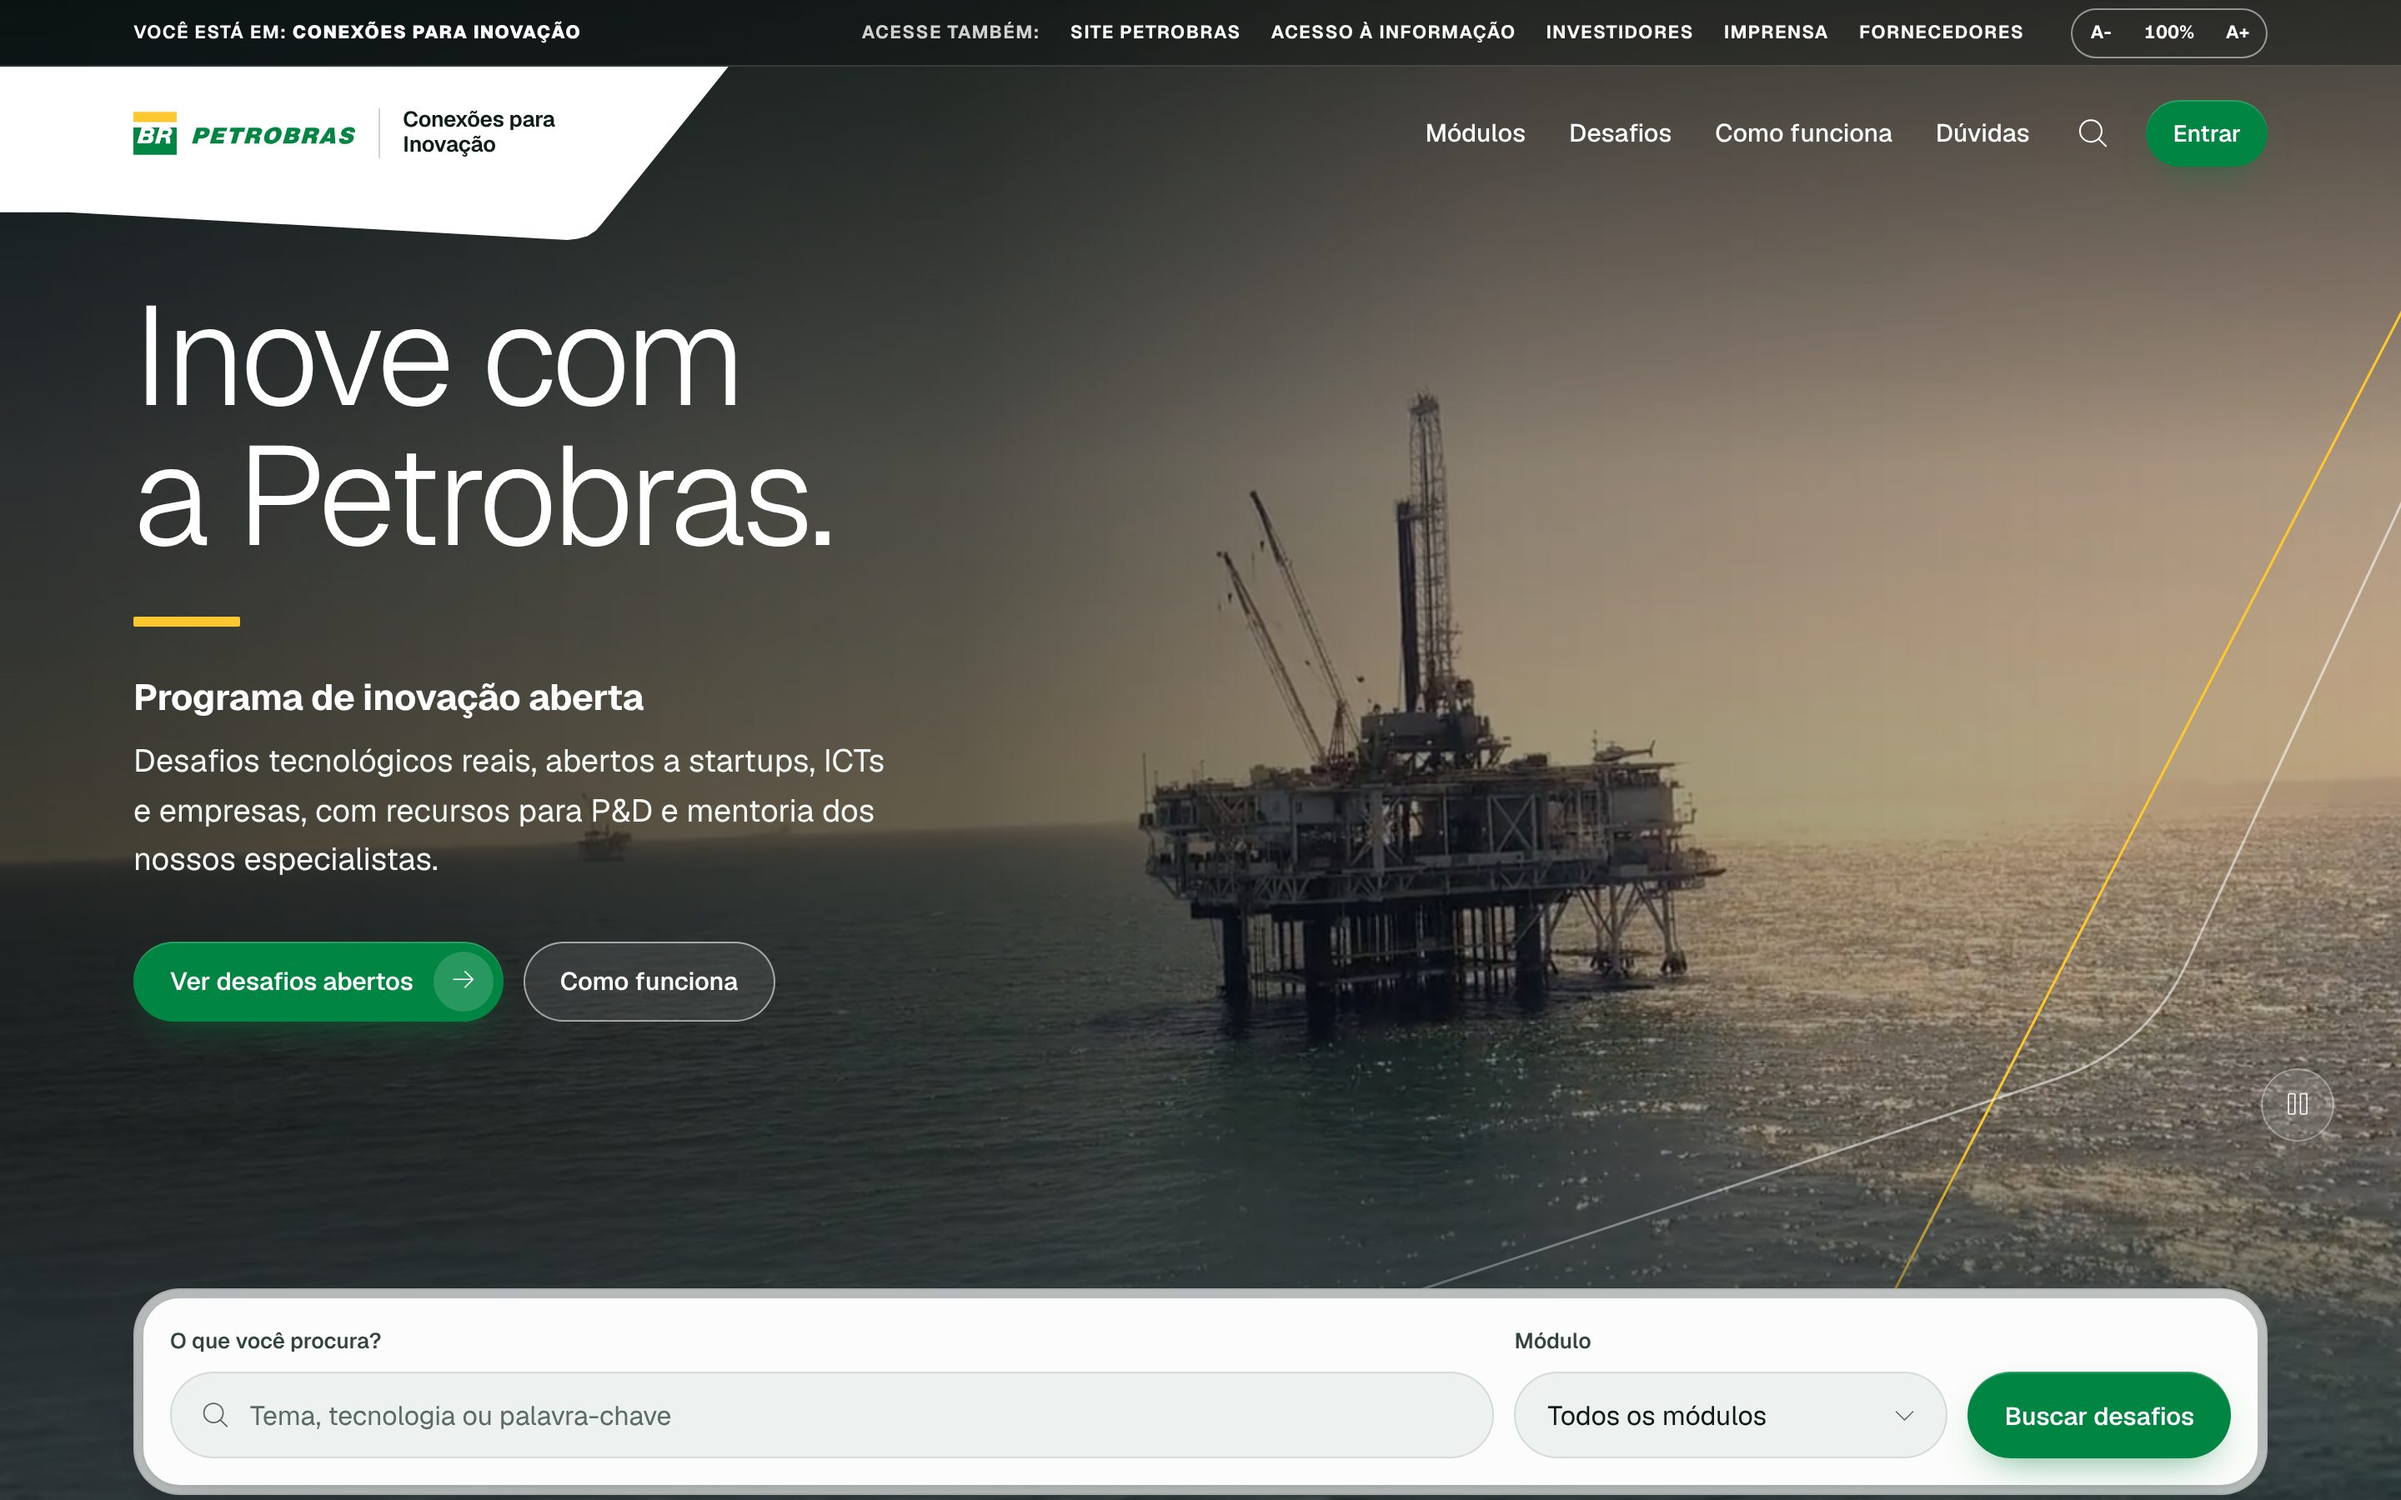
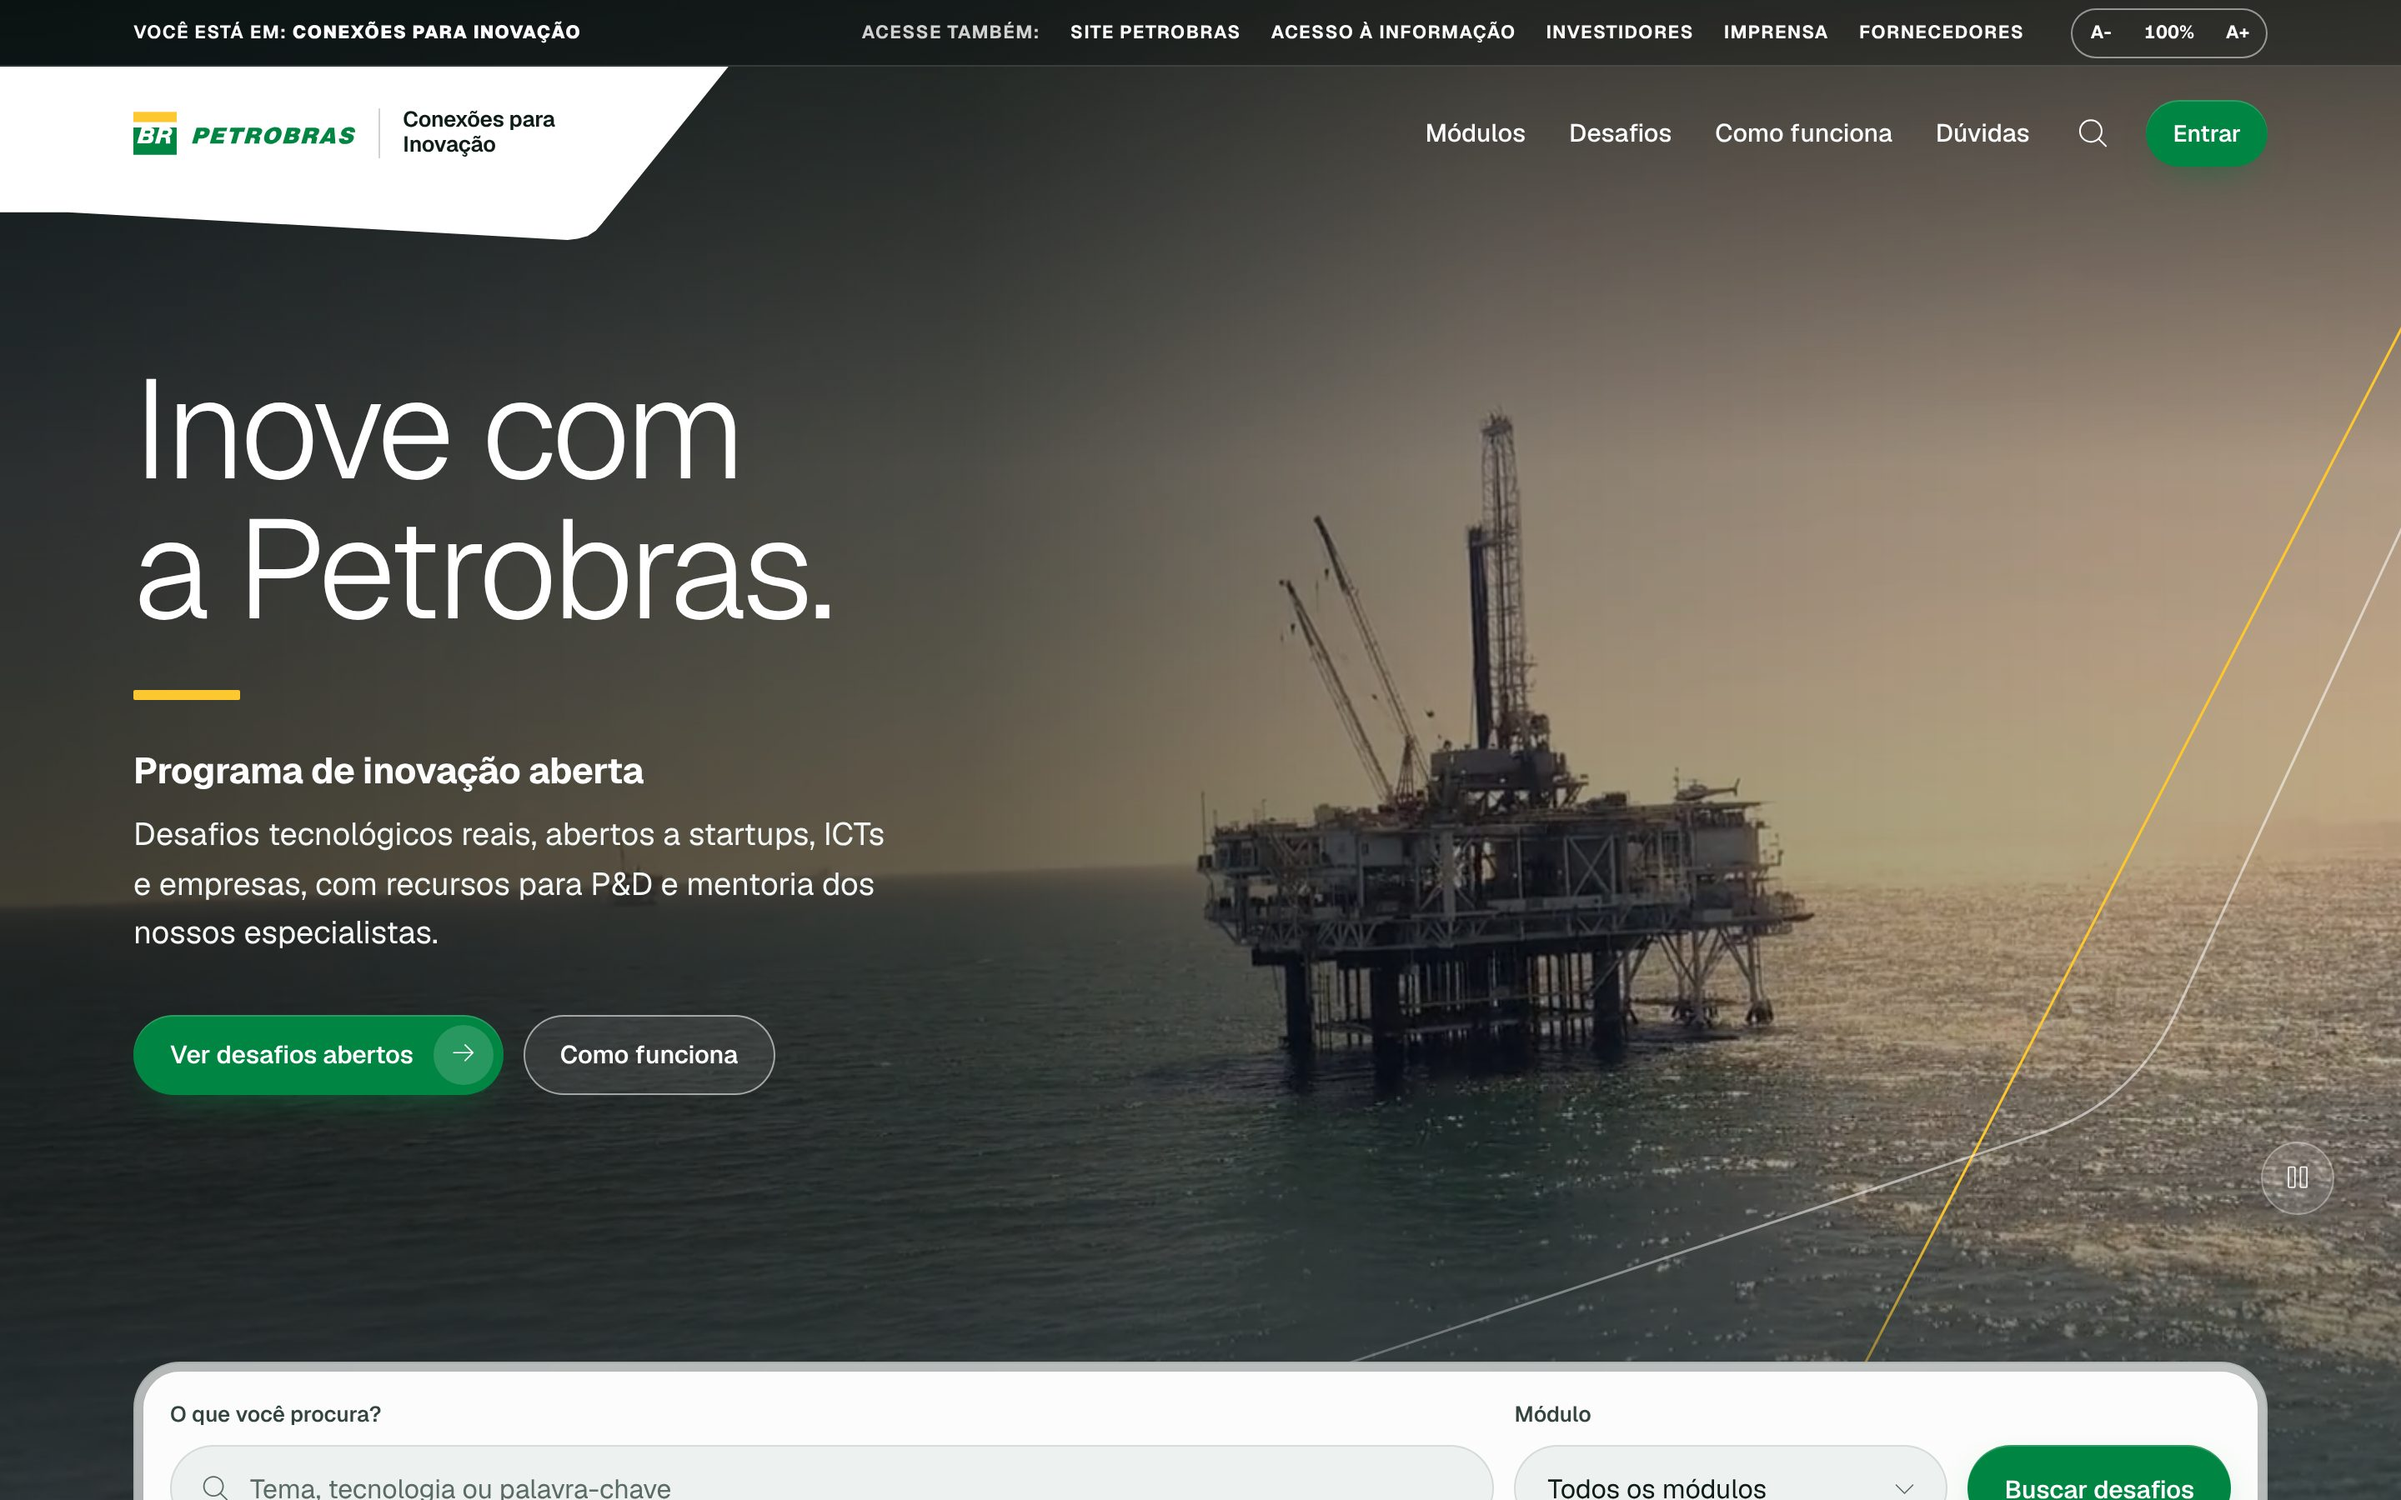
Refaz o commit da rodada 5 depois do merge
O merge de "Update styles.css" com a rodada 5 desfez parte do CSS do hero:
as linhas da marca viraram uma forma preta, o véu claro voltou e o menu
branco ficou invisível. Este commit restaura o CSS da rodada 5 e mantém a
intenção daquela edição: texto branco sem véu claro e mais abaixo no hero
(o título começa a 216 px do topo no desktop, como na edição manual).

Claude-Session: https://claude.ai/code/session_01RAqb2iraTZncBbEkAKZSUg

diff --git a/assets/css/styles.css b/assets/css/styles.css
@@ -1284,8 +1284,9 @@ button {
   --sea-blend: 180px;
   /* quanto a busca sobe sobre o pé do hero */
   --dock-lift: 84px;
-  /* o conteúdo começa abaixo da barra de serviços e da aba branca do logo */
-  --hero-top: calc(var(--topbar-h) + var(--tab-h) + 28px);
+  /* o conteúdo começa bem abaixo da barra de serviços e da aba branca do logo
+     (texto mais baixo, como no ajuste feito direto no repositório) */
+  --hero-top: calc(var(--topbar-h) + var(--tab-h) + 72px);
   --hero-shade: 3 14 12;
   --hero-deep: #2c3738;
 }
@@ -1297,8 +1298,9 @@ button {
   align-items: center;
   min-height: max(680px, calc(100vh - 56px));
   min-height: max(680px, calc(100dvh - 56px));
-  color: var(--ink);
-  background: var(--bg-tint);
+  color: var(--media-ink);
+  background: var(--media-bg);
+  --focus: #ffffff;
 }
 .hero__media {
   position: absolute;
@@ -1329,20 +1331,59 @@ button {
   inset: 0;
   z-index: -1;
   background:
-    linear-gradient(270deg, rgb(var(--veil) / 0.8) 0%, rgb(var(--veil) / 0.68) 46%, rgb(var(--veil) / 0) 62%),
-    radial-gradient(78% 88% at 100% 0%, rgb(var(--veil) / 0.6) 0%, rgb(var(--veil) / 0) 70%);
-  -webkit-mask-image: linear-gradient(0deg, transparent 0, transparent 60px, #000 240px);
-  mask-image: linear-gradient(0deg, transparent 0, transparent 60px, #000 240px);
+    linear-gradient(180deg, rgb(var(--hero-shade) / 0.6) 0, rgb(var(--hero-shade) / 0) 280px),
+    linear-gradient(
+      90deg,
+      rgb(var(--hero-shade) / 0.7) 0%,
+      rgb(var(--hero-shade) / 0.62) 40%,
+      rgb(var(--hero-shade) / 0.4) 62%,
+      rgb(var(--hero-shade) / 0.26) 100%
+    );
+}
+/* Linhas da marca (fio branco com curva e fio amarelo que o cruza), desenhadas na entrada */
+.hero__lines {
+  position: absolute;
+  inset: 0;
+  z-index: -1;
+  width: 100%;
+  height: 100%;
+  max-width: none;
+  pointer-events: none;
+}
+.hero__line {
+  fill: none;
+  stroke-width: 1.5;
+  stroke-linecap: round;
+  /* espessura constante em qualquer tela */
+  vector-effect: non-scaling-stroke;
+}
+.hero__line--brand {
+  stroke: var(--brand-yellow);
+}
+.hero__line--light {
+  stroke: rgb(255 255 255 / 0.55);
+}
+/* entram de cima para baixo, como se fossem traçadas a partir do canto */
+.js .hero__line {
+  clip-path: inset(0 0 100% 0);
+  animation: hero-line 2200ms var(--ease-in-out) forwards;
+}
+.js .hero__line--brand {
+  animation-delay: 500ms;
+}
+.js .hero__line--light {
+  animation-delay: 800ms;
+}
+@keyframes hero-line {
+  to {
+    clip-path: inset(0 0 0 0);
+  }
 }
 .hero__inner {
-  padding-block: calc(var(--header-offset) + 28px) 196px;
+  padding-block: var(--hero-top) calc(var(--sea-blend) + 64px);
 }
 .hero__content {
-  width: min(500px, 44%);
-  margin-left: auto;
-}
-.hero .eyebrow {
-  color: var(--ink-2);
+  width: min(600px, 48%);
 }
 .hero h1 {
   font-weight: 300;
@@ -1368,7 +1409,7 @@ button {
   max-width: 44ch;
   font-size: clamp(1.0625rem, 1rem + 0.3vw, 1.1875rem);
   line-height: 1.55;
-  color: var(--ink-2);
+  color: var(--media-ink);
 }
 .hero__actions {
   display: flex;
